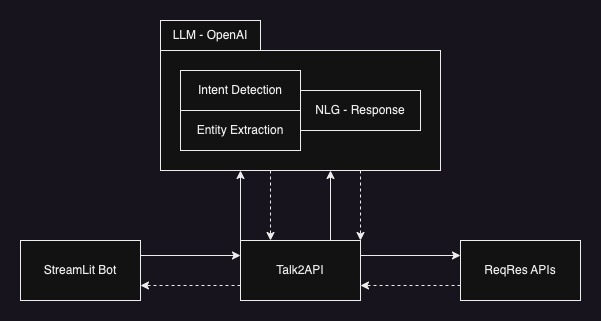
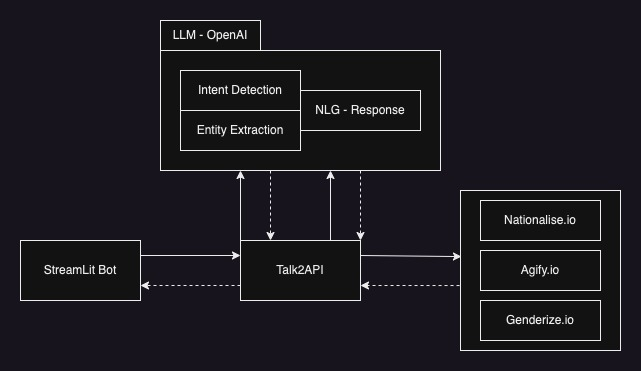
add extraction chain and basic tools - Agify Tool: used to get the age of a person - Nationalise Tool: used to predict the nationality of a person

diff --git a/tools/nationaliseTool.py b/tools/nationaliseTool.py
@@ -1,0 +1,57 @@
+import requests
+from langchain.tools import BaseTool
+from base import extract_name
+from langchain.chat_models import ChatOpenAI
+from langchain.chains.llm import LLMChain
+from langchain.prompts import ChatPromptTemplate
+
+_NATIONALISE_RESPONSE_TEMPLATE = """Given the data in the json output. 
+Generate the human readable response.
+json output:
+{input}
+"""
+
+# Define the API endpoint
+API_ENDPOINT = "https://api.nationalize.io/"
+
+class NationaliseTool(BaseTool):
+    def __init__(self):
+        super().__init__(name="nationalise", description="Predicts the nationality of a person.")
+
+    def _run(self, input_text: str) -> str:
+        # Extract name of person from the input text
+        name = extract_name(input_text)
+        # Call the nationalise.io API with the provided name
+        response = requests.get(API_ENDPOINT, params={"name": name})
+        # Check if the API call was successful
+        if response.status_code == 200:
+            # Parse the JSON response and extract the age
+            data = response.json()
+            prompt = ChatPromptTemplate.from_template(_NATIONALISE_RESPONSE_TEMPLATE)
+            llm = ChatOpenAI(temperature=0, model="gpt-3.5-turbo-0613")
+            chain = LLMChain(
+                llm=llm,
+                prompt=prompt
+            )
+            """
+            Sample json output:
+            {"count":2101006,"name":"michael","country":[{"country_id":"AT","probability":0.061},{"country_id":"DE","probability":0.056},{"country_id":"DK","probability":0.054},{"country_id":"IE","probability":0.048},{"country_id":"GH","probability":0.046}]}
+            Generated NLG response:
+            The name is Michael and there are a total of 2,101,006 occurrences of this name. The name is most likely associated with the following countries and their respective probabilities: Austria (0.061), Germany (0.056), Denmark (0.054), Ireland (0.048), and Ghana (0.046).
+            """
+            return chain.run(input=data)
+        else:
+            # Return an error message if the API call failed
+            return "Error: Failed to retrieve age information."
+        
+    async def _arun(
+        self
+    ) -> str:
+        """Use the tool asynchronously."""
+        raise NotImplementedError("custom_search does not support async")
+
+# Example usage
+# input_text = "What can be the nationality of  Michael?"
+# tool = NationaliseTool()
+# result = tool.run(input_text)
+# print(result)

diff --git a/tools/agifyTool.py b/tools/agifyTool.py
@@ -1,0 +1,40 @@
+import requests
+from langchain.tools import BaseTool
+from base import extract_name
+
+# Define the API endpoint
+API_ENDPOINT = "https://api.agify.io"
+
+class AgifyTool(BaseTool):
+    def __init__(self):
+        super().__init__(name="agify", description="Returns the age of a person.")
+
+    def _run(self, input_text: str) -> str:
+        # Extract name of person from the input text
+        name = extract_name(input_text)
+        # Call the Agify.io API with the provided name
+        response = requests.get(API_ENDPOINT, params={"name": name})
+
+        # Check if the API call was successful
+        if response.status_code == 200:
+            # Parse the JSON response and extract the age
+            data = response.json()
+            age = data.get("age")
+
+            # Return the age as a string
+            return f"{name} is {age} years old."
+        else:
+            # Return an error message if the API call failed
+            return "Error: Failed to retrieve age information."
+        
+    async def _arun(
+        self
+    ) -> str:
+        """Use the tool asynchronously."""
+        raise NotImplementedError("custom_search does not support async")
+
+# Example usage
+# input_text = "What is the age of Michael?"
+# tool = AgifyTool()
+# result = tool.run(input_text)
+# print(result)

diff --git a/tools/base.py b/tools/base.py
@@ -1,0 +1,16 @@
+from langchain.chains import create_extraction_chain
+from langchain.chat_models import ChatOpenAI
+schema = {
+    "properties": {
+        "name": {"type": "string"}
+    },
+    "required": ["name"],
+}
+llm = ChatOpenAI(temperature=0, model="gpt-3.5-turbo-0613")
+# Define the extraction chain to extract the name of the person from user input
+extraction_chain = create_extraction_chain(schema, llm, verbose=True)
+def extract_name(input_text: str) -> str:
+    """Extracts the name from the input text."""
+    extracted_result = extraction_chain.run(input_text)
+    name = extracted_result[0]["name"]
+    return name

diff --git a/README.md b/README.md
@@ -2,13 +2,23 @@
 This project demonstrates the execution of APIs using queries typed in natural language
 
 ## What we did?
-In this project we are going to Talk to the [ReqRes](https://reqres.in/) APIs using plain english language. Also, convert the responses back into human readiable english language
+In this project we are going to Talk to the [Genderize.io](https://genderize.io/), [Nationalize.io](https://nationalize.io/) and [Agify.io](https://agify.io/) APIs using plain english language. Also, convert the responses back into human readiable english language
 
 ## Why we did?
 This project is done to explore the possibility of applying latest AI progress in NLP in creating domain driven, goal oriented chat bots with a flexibility of even going out of domain if required.
 
 ## How we did?
+
+### High Level Design
+
 ![Talk2APIArhcitecture](./figures/Talk2API_Architecture.jpg)
+
+### Mid Level Design
+
+* An agent driven by 3 tools.
+* Tools detect the intent of the user
+* Each tool will be using the extraction chain to extract the necessary information and call its respective API
+* Once the response is got from the respective API, separate prompts are constructed to generate a natural response
 
 ## Getting started with development
 
@@ -20,6 +30,8 @@ This project is done to explore the possibility of applying latest AI progress i
 
 > conda activate talk2api
 
+### Setup, Build and Run
+
 > git clone https://github.com/sheikirfanbasha/Talk2API.git
 
 > cd Talk2API
@@ -29,3 +41,20 @@ This project is done to explore the possibility of applying latest AI progress i
 > export OPENAI_API_KEY=<your_openai_api_key>
 
 > streamlit run talk2api
+
+### Known Issues and Fixes
+
+| Error      | Fix |
+| ----------- | ----------- |
+| ModuleNotFoundError: No module named 'langchain.chat_models'   | pip install langchain --upgrade        |
+
+
+## Useful for stepwise understanding
+
+### Extraction of Entities
+
+> python experiments/extractEntities.py
+
+```
+[{'name': 'Alex', 'height': 5, 'hair_color': 'blonde'}, {'name': 'Claudia', 'height': 6, 'hair_color': 'brunette'}]
+```
